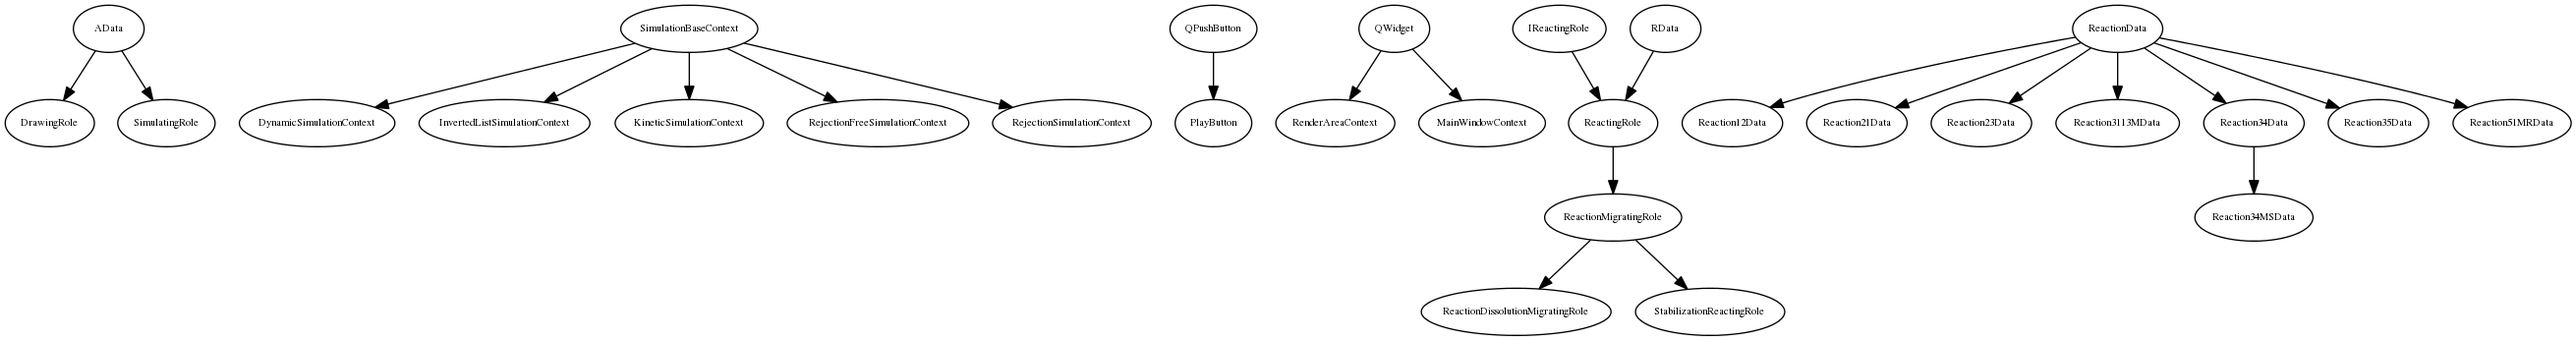
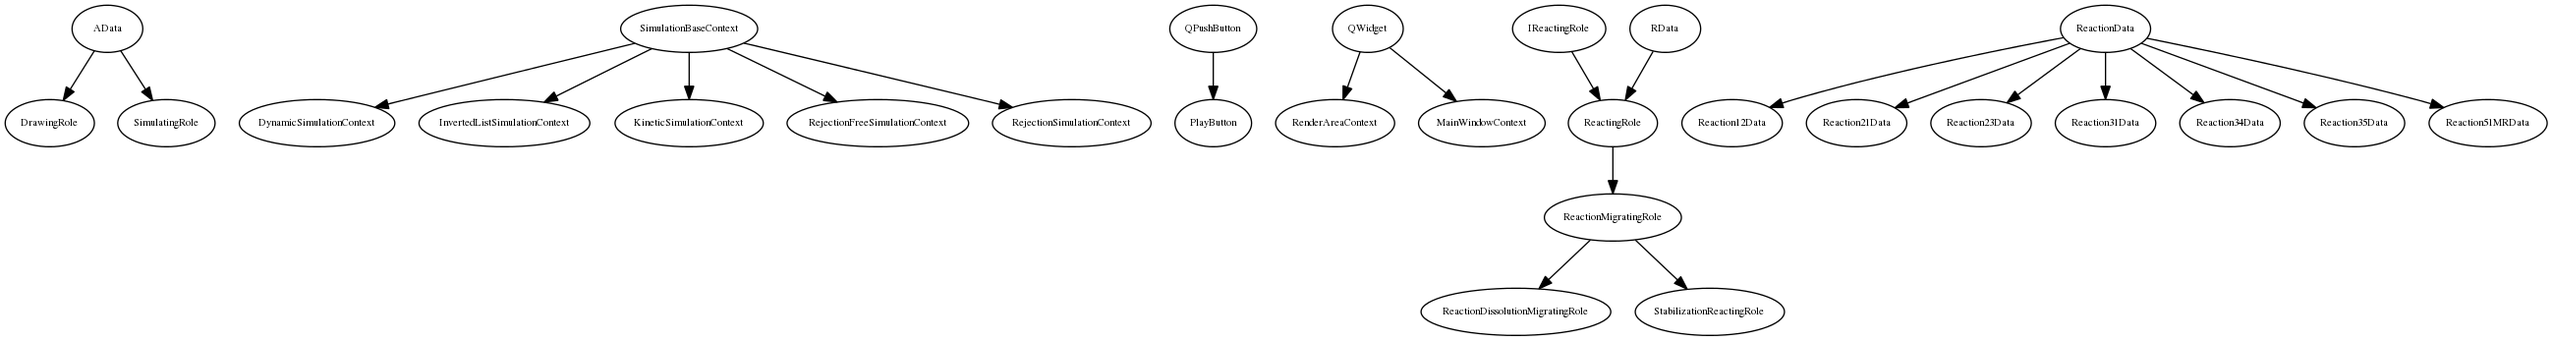
slight changes in the tree classes of reactions

diff --git a/simulationbase_context.cpp b/simulationbase_context.cpp
@@ -7,8 +7,8 @@
 #include "reaction12_data.h"
 #include "reaction21_data.h"
 #include "reaction23_data.h"
-#include "reaction3113m_data.h"
-#include "reaction34ms_data.h"
+#include "reaction31_data.h"
+#include "reaction34_data.h"
 #include "reaction35_data.h"
 #include "reaction51mr_data.h"
 
@@ -21,14 +21,15 @@ SimulationBaseContext::SimulationBaseContext(AreaData *area) : _area(area) {
     _reactions[0] = new ReactingRole<Reaction12Data>;
     _reactions[1] = new ReactingRole<Reaction21Data>;
     _reactions[2] = new ReactingRole<Reaction23Data>;
-//    _reactions[3] = new ReactionMigratingRole<Reaction3113MData>;
-//    _reactions[4] = new StabilizationReactingRole<Reaction34MSData>;
-//    _reactions[5] = new ReactingRole<Reaction35Data>;
-//    _reactions[6] = new ReactionDissolutionMigratingRole<Reaction51MRData, 5>;
 
-    _reactions[3] = new ReactingRole<Reaction34Data>;
-    _reactions[4] = new ReactingRole<Reaction35Data>;
-    _reactions[5] = new ReactingRole<Reaction51MRData>;
+    _reactions[3] = new ReactionMigratingRole<Reaction31Data>;
+    _reactions[4] = new StabilizationReactingRole<Reaction34Data>;
+    _reactions[5] = new ReactingRole<Reaction35Data>;
+    _reactions[6] = new ReactionDissolutionMigratingRole<Reaction51MRData, 5>;
+
+//    _reactions[3] = new ReactingRole<Reaction34Data>;
+//    _reactions[4] = new ReactingRole<Reaction35Data>;
+//    _reactions[5] = new ReactingRole<Reaction51MRData>;
 }
 
 SimulationBaseContext::~SimulationBaseContext() {

diff --git a/reactionmigrating_role.h b/reactionmigrating_role.h
@@ -13,6 +13,7 @@ public:
     void doIt(SiteData *site);
 
 protected:
+    virtual int requiredNeighourState() const;
     void updateNeighbour(const SiteData *site, int neighbourState);
 
 private:
@@ -37,6 +38,11 @@ void ReactionMigratingRole<RData>::doIt(SiteData *site) {
 }
 
 template <class RData>
+int ReactionMigratingRole<RData>::requiredNeighourState() const {
+    return this->nextState();
+}
+
+template <class RData>
 void ReactionMigratingRole<RData>::updateNeighbour(const SiteData *site, int neighbourState) {
     int randomIndex = rand() % couldBe(*site);
     int currCouldIndex = 0;
@@ -48,7 +54,7 @@ void ReactionMigratingRole<RData>::updateNeighbour(const SiteData *site, int nei
 template <class RData>
 std::function<void (int *)> ReactionMigratingRole<RData>::validCaseLambda(std::function<void (int *)> innerLambda) const {
     return [this, &innerLambda](int *neighbour) {
-        if (*neighbour == this->nextState()) innerLambda(neighbour);
+        if (*neighbour == this->requiredNeighourState()) innerLambda(neighbour);
     };
 }
 

diff --git a/stabilizationreacting_role.h b/stabilizationreacting_role.h
@@ -8,12 +8,20 @@ class StabilizationReactingRole : public ReactionMigratingRole<RData>
 {
 public:
     void doIt(SiteData *site);
+
+protected:
+    int requiredNeighourState() const;
 };
 
 template <class RData>
 void StabilizationReactingRole<RData>::doIt(SiteData *site) {
-    updateNeighbour(site, this->stableState());
-    site->setCell(this->stableState());
+    updateNeighbour(site, this->nextState());
+    site->setCell(this->nextState());
+}
+
+template <class RData>
+int StabilizationReactingRole<RData>::requiredNeighourState() const {
+    return this->prevState();
 }
 
 #endif // STABILIZATIONREACTING_ROLE_H

diff --git a/kineticsimulation_context.cpp b/kineticsimulation_context.cpp
@@ -40,7 +40,7 @@ void KineticSimulationContext::calcRatesPerSite(PerSite *perSite) const {
 int KineticSimulationContext::siteRandomIndex(float *dt) const {
     int indexOfMin = -1;
     float min_dt = 0;
-    for (int i = 0; i < _perSites.size(); ++i) {
+    for (int i = 0; i < (int)(_perSites.size()); ++i) {
         if (_perSites[i]->_commonRate == 0) continue;
         float local_dt = negativLogU() / _perSites[i]->_commonRate;
 

diff --git a/mainwindow_context.cpp b/mainwindow_context.cpp
@@ -5,7 +5,7 @@
 #include "kineticsimulation_context.h"
 #include "rejectionsimulation_context.h"
 #include "rejectionfreesimulation_context.h"
-#include "invertedlistsimulation_context.h"
+//#include "invertedlistsimulation_context.h"
 
 MainWindowContext::MainWindowContext() : _area(8, 5) {
     setWindowTitle("Monte Carlo simulation");

diff --git a/reaction31_data.h b/reaction31_data.h
@@ -1,0 +1,12 @@
+#ifndef REACTION31_ROLE_H
+#define REACTION31_ROLE_H
+
+#include "reaction_data.h"
+
+class Reaction31Data : public ReactionData
+{
+public:
+    Reaction31Data() : ReactionData(1e2, 3, 1) {}
+};
+
+#endif // REACTION31_ROLE_H

diff --git a/simulationbase_context.h b/simulationbase_context.h
@@ -5,8 +5,8 @@
 #include "area_data.h"
 #include "ireacting_role.h"
 
-//#define REACTIONS_NUM 7
-#define REACTIONS_NUM 6
+#define REACTIONS_NUM 7
+//#define REACTIONS_NUM 6
 
 class SimulationBaseContext
 {

diff --git a/reacting_role.h b/reacting_role.h
@@ -6,7 +6,7 @@
 template <class RData>
 class ReactingRole :
         public IReactingRole,
-        public RData
+        public virtual RData
 {
 public:
     float rate() const;
